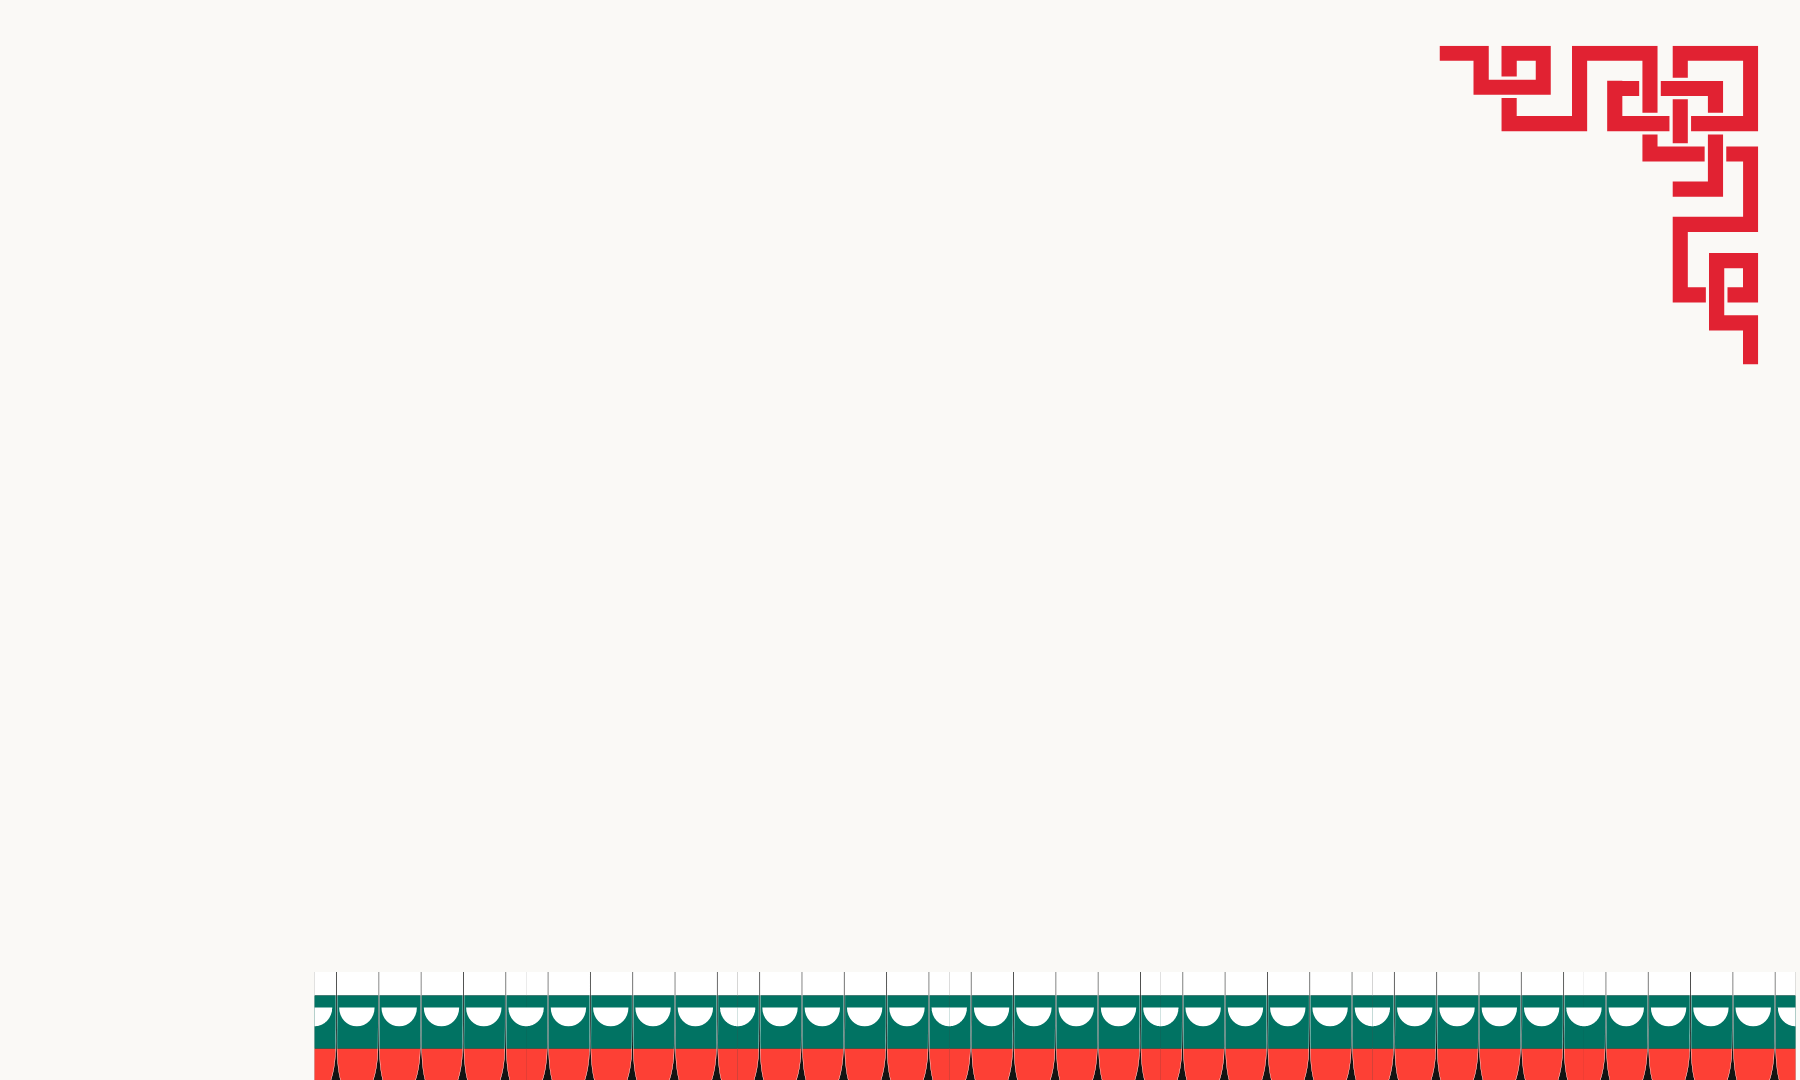
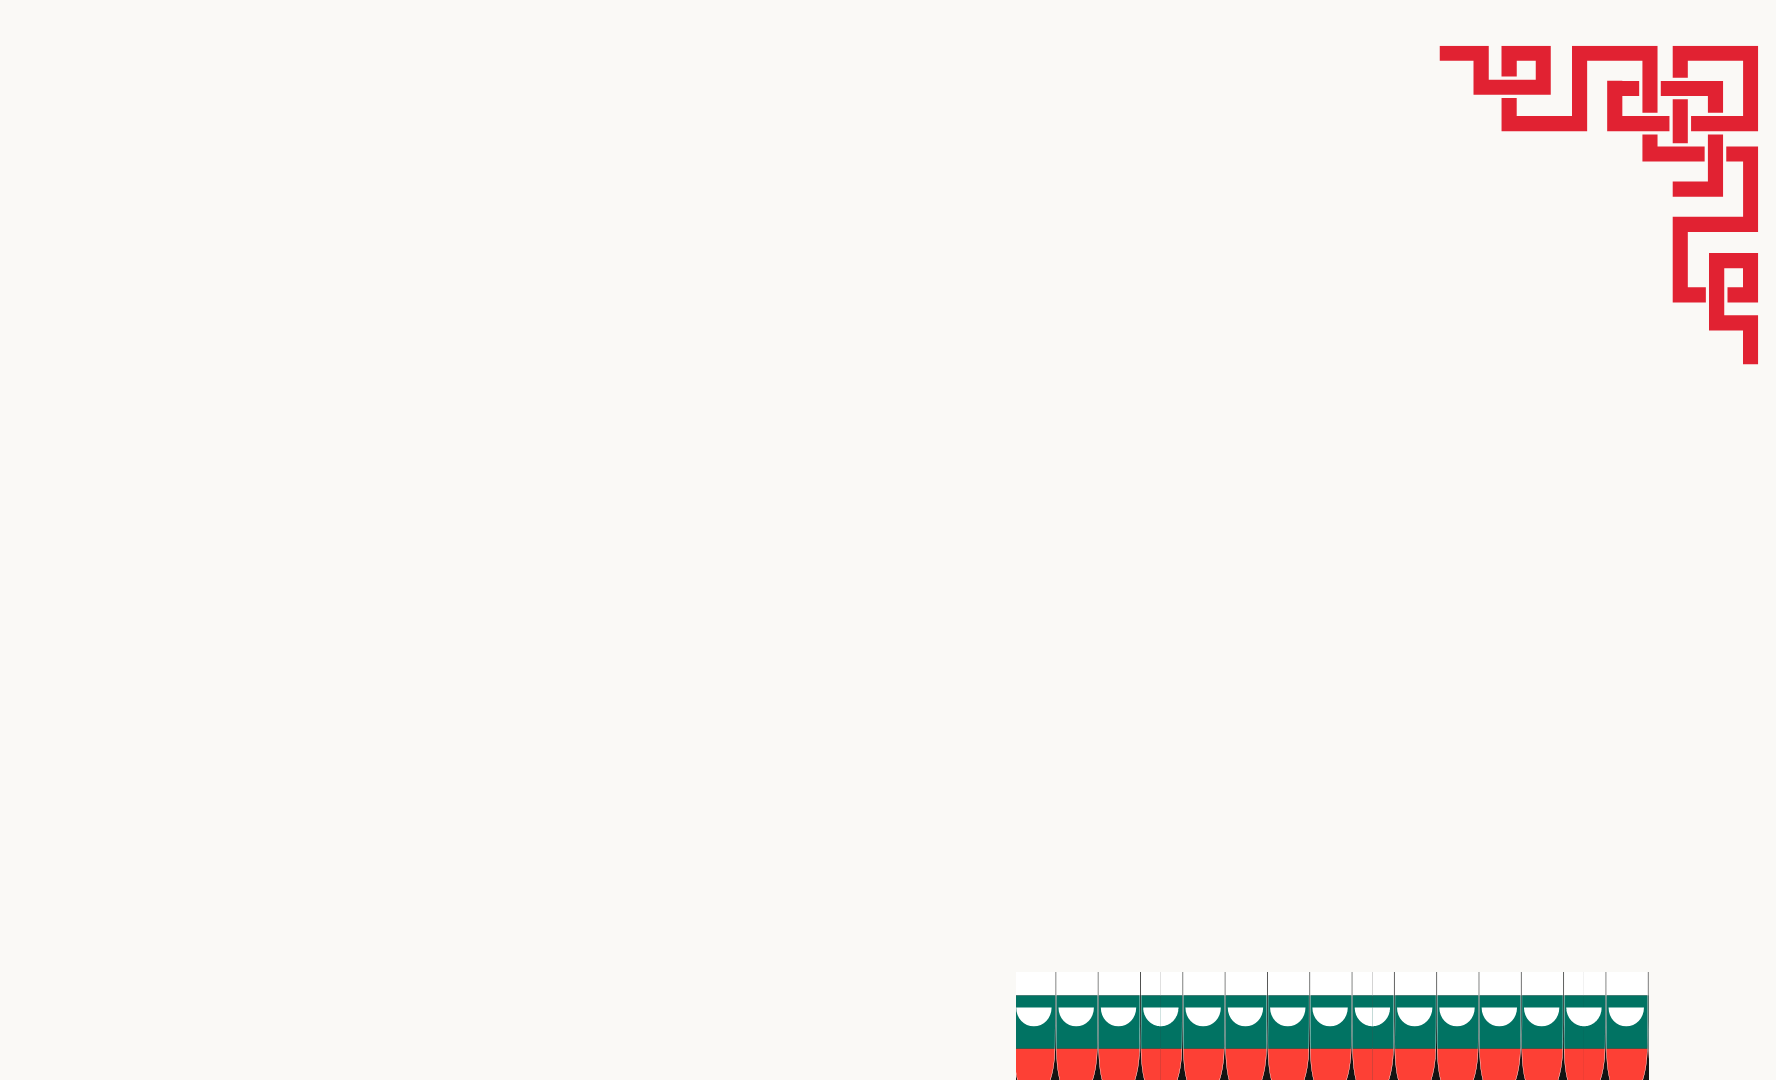
modified:   public/assets/images/profile-border.png 	modified:   public/assets/scss/elements/_team.scss

Changed region(s): [[0.1548, 0.9167, 1.0, 1.0], [0.8052, 0.0306, 0.991, 0.3361]]

diff --git a/public/assets/scss/elements/_team.scss b/public/assets/scss/elements/_team.scss
@@ -50,11 +50,13 @@
 }
 
 .user_border {
-  border:80px solid;
-  border-image: url(/assets/images/profile-border.png) round;
+  border: 80px solid;
+  border-image: url(/assets/images/profile-border.png);
   border-image-slice: 162 175 106 900;
-  border-image-width: 80px 100px 29px 0px;
+  border-image-width: 80px 100px 50px 0px;
   border-image-outset: 0px 0px 0px 0px;
+  border-image-repeat: stretch stretch;
+
 }
 
 .team_img {
